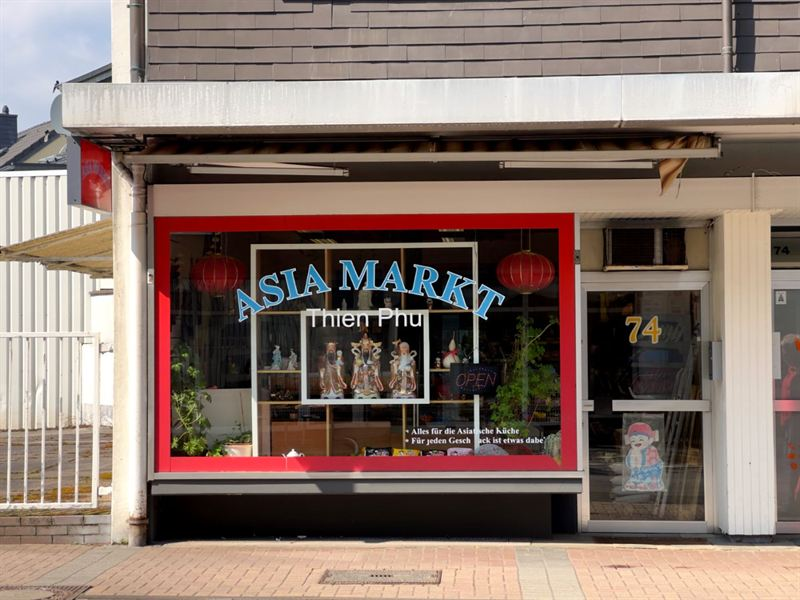
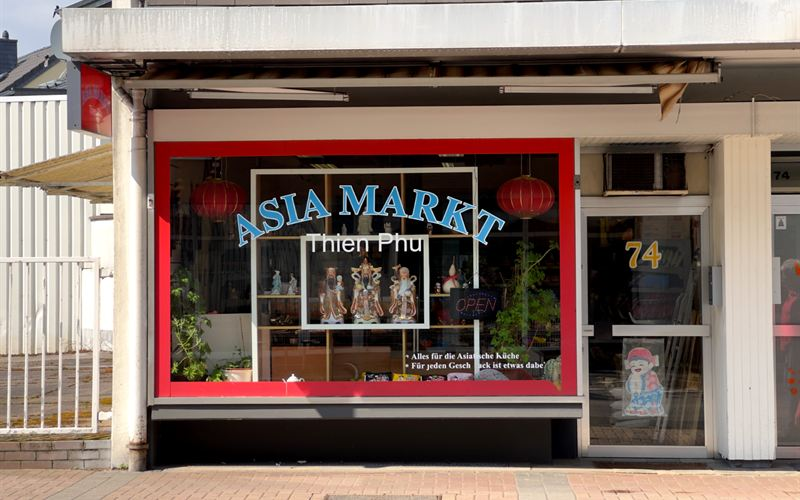
Vereinheitliche die Laden-Galerie auf ein gemeinsames Bildformat
Die drei Bilder auf "Der Laden" standen in drei verschiedenen Formaten
nebeneinander - 4:3, 1400/858 und 3:4 - in Spalten von 1.3fr 1.3fr .9fr.
Das ergab drei verschieden hohe Kacheln mit einer Hoehenspanne von 129 px
und einer entsprechend unruhigen Reihe. Mein vorheriger Zuschnitt des
Schaufensterfotos hatte das noch verschaerft.

Statt die Hoehen nachtraeglich anzugleichen, ist die Ursache behoben: alle
drei Bilder haben jetzt 16:10, die Spalten sind gleich breit. Ergebnis sind
drei identische Kacheln, Hoehenspanne 0 px, Unterkanten buendig.
align-items: start konnte entfallen.

Jedes Bild neu erzeugt aus der jeweils hoechstaufloesenden Quelle statt aus
der bereits komprimierten Webfassung:

  ladenschild   <- uploads/ladenschild.jpg    1600x1200
  schaufenster  <- uploads/schaufenster.jpg   1600x1136
  haus          <- Fotos/IMG_3952.jpg         3024x4032

Das Hausbild ist dabei mittig auf den Laden gelegt, wie gewuenscht: der rote
Rahmen sitzt jetzt waagerecht wie senkrecht in der Bildmitte. Vorher zeigte
das Bild vor allem Himmel und Fassade, der Laden war ein kleiner Streifen am
unteren Rand. Oben bleibt ein Geschoss als Kontext, unten Gehweg und
Strassenkante - die Aufnahme bleibt also "von der Strasse aus gesehen" und
dupliziert nicht die beiden anderen Kacheln.

Zwei Nebenwirkungen, beide zum Guten:

- Startgalerie: Schaufenster- und Eingangsfoto stehen jetzt 1 px
  auseinander statt 56 px.
- Sortiment-Kopf: ladenschild.jpg wird dort ebenfalls verwendet und ist
[…]

diff --git a/ueber-uns.html b/ueber-uns.html
@@ -115,26 +115,26 @@
         </div>
 
         <div class="galerie-3" data-reveal style="margin-top:40px">
-            <img src="assets/images/ladenschild.jpg" width="1400" height="1050" class="foto foto-4-3"
+            <img src="assets/images/ladenschild.jpg" width="1200" height="750" class="foto foto-16-10"
                  srcset="assets/images/ladenschild-480.jpg 480w,
                          assets/images/ladenschild-800.jpg 800w,
-                         assets/images/ladenschild.jpg 1400w"
-                 sizes="(max-width: 760px) calc(100vw - 44px), 415px"
+                         assets/images/ladenschild.jpg 1200w"
+                 sizes="(max-width: 760px) calc(100vw - 44px), 373px"
                  alt="Ladenfront mit rotem Schaufensterrahmen und dem Schriftzug ASIA MARKT Thien Phu"
                  loading="lazy" decoding="async">
-            <img src="assets/images/schaufenster.jpg" width="1400" height="858" class="foto foto-schaufenster"
+            <img src="assets/images/schaufenster.jpg" width="1200" height="750" class="foto foto-16-10"
                  srcset="assets/images/schaufenster-480.jpg 480w,
                          assets/images/schaufenster-800.jpg 800w,
-                         assets/images/schaufenster.jpg 1400w"
-                 sizes="(max-width: 760px) calc(100vw - 44px), 415px"
+                         assets/images/schaufenster.jpg 1200w"
+                 sizes="(max-width: 760px) calc(100vw - 44px), 373px"
                  alt="Schaufenster aus der Nähe, mit roten Lampions und Glücksfiguren"
                  loading="lazy" decoding="async">
-            <img src="assets/images/haus.jpg" width="900" height="1200" class="foto foto-3-4"
-                 srcset="assets/images/haus-320.jpg 320w,
-                         assets/images/haus-600.jpg 600w,
-                         assets/images/haus.jpg 900w"
-                 sizes="(max-width: 760px) calc(100vw - 44px), 287px"
-                 alt="Das Haus Hauptstraße 74 von der Straße aus gesehen"
+            <img src="assets/images/haus.jpg" width="1200" height="750" class="foto foto-16-10"
+                 srcset="assets/images/haus-480.jpg 480w,
+                         assets/images/haus-800.jpg 800w,
+                         assets/images/haus.jpg 1200w"
+                 sizes="(max-width: 760px) calc(100vw - 44px), 373px"
+                 alt="Das Haus Hauptstraße 74 von der Straße aus gesehen, mit dem Laden im Erdgeschoss"
                  loading="lazy" decoding="async">
         </div>
     </section>

diff --git a/assets/css/site.css b/assets/css/site.css
@@ -232,12 +232,12 @@ h2 { font-size: clamp(27px, 3.6vw, 38px); margin: 0 0 8px; }
    Laden und verhindern so das Springen des Layouts. */
 .foto { width: 100%; height: auto; object-fit: cover; border-radius: var(--radius); background: var(--rose); }
 .foto-4-3        { aspect-ratio: 4 / 3; }
-.foto-3-4        { aspect-ratio: 3 / 4; }
-/* Beim Schaufensterfoto sind oben 13,6 % abgeschnitten: dort lagen der
-   Betonunterzug und der cremefarbene Sturz oberhalb des roten Rahmens.
-   Der Rahmen selbst bleibt oben als schmaler Streifen erhalten. Deshalb
-   1400/858 statt der 1600/1136 des Entwurfs. */
-.foto-schaufenster { aspect-ratio: 1400 / 858; }
+/* Gemeinsames Format fuer Ladenschild, Schaufenster und Haus. Der Entwurf gab
+   jedem der drei ein eigenes Verhaeltnis (4/3, 1600/1136, 3/4); nebeneinander
+   in der Galerie ergab das drei verschieden hohe Kacheln und eine unruhige
+   Reihe. Ein gemeinsames 16:10 loest das an der Wurzel, statt die Hoehen
+   nachtraeglich anzugleichen. */
+.foto-16-10      { aspect-ratio: 16 / 10; }
 /* Beim Eingangsfoto sind oben 22 % abgeschnitten: dort waren der
    Betonunterzug und die zusammengerollte, ausgefranste Markise zu sehen.
    Dadurch weicht das Verhaeltnis bewusst vom Entwurf (1400/1628) ab. */
@@ -274,7 +274,11 @@ h2 { font-size: clamp(27px, 3.6vw, 38px); margin: 0 0 8px; }
 .bewertungen footer { font-size: 14px; font-weight: 700; color: var(--grau-zart); }
 
 .galerie-2 { display: grid; grid-template-columns: 1.45fr 1fr; gap: 20px; align-items: start; }
-.galerie-3 { display: grid; grid-template-columns: 1.3fr 1.3fr .9fr; gap: 20px; align-items: start; }
+/* Drei gleich breite Spalten. Der Entwurf hatte 1.3fr 1.3fr .9fr, weil das
+   dritte Bild hochkant war — bei gleichem Format waere das jetzt eine
+   willkuerlich schmalere Kachel. `align-items: start` kann entfallen, da alle
+   drei ohnehin gleich hoch sind. */
+.galerie-3 { display: grid; grid-template-columns: repeat(3, 1fr); gap: 20px; }
 
 /* ------------------------------------------------------------- Sortiment - */
 

diff --git a/sortiment.html b/sortiment.html
@@ -79,10 +79,10 @@
             <h1>Unser Sortiment</h1>
             <p>Ein kleines Ladenlokal, aber gut sortiert. Was Sie nicht finden, fragen Sie einfach, vieles lässt sich besorgen.</p>
         </div>
-        <img src="assets/images/ladenschild.jpg" width="1400" height="1050" class="foto foto-4-3"
+        <img src="assets/images/ladenschild.jpg" width="1200" height="750" class="foto foto-16-10"
              srcset="assets/images/ladenschild-480.jpg 480w,
                      assets/images/ladenschild-800.jpg 800w,
-                     assets/images/ladenschild.jpg 1400w"
+                     assets/images/ladenschild.jpg 1200w"
              sizes="(max-width: 980px) calc(100vw - 44px), 517px"
              alt="Ladenfront des Asia Markt Thien Phu mit rotem Schaufensterrahmen und dem Schriftzug ASIA MARKT Thien Phu"
              loading="eager" decoding="async" fetchpriority="high">

diff --git a/index.html b/index.html
@@ -232,10 +232,10 @@
 
     <section class="bahn" style="padding-block: 52px">
         <div class="galerie-2" data-reveal>
-            <img src="assets/images/schaufenster.jpg" width="1400" height="858" class="foto foto-schaufenster"
+            <img src="assets/images/schaufenster.jpg" width="1200" height="750" class="foto foto-16-10"
                  srcset="assets/images/schaufenster-480.jpg 480w,
                          assets/images/schaufenster-800.jpg 800w,
-                         assets/images/schaufenster.jpg 1400w"
+                         assets/images/schaufenster.jpg 1200w"
                  sizes="(max-width: 760px) calc(100vw - 44px), 672px"
                  alt="Schaufenster des Asia Markt Thien Phu aus der Nähe, mit roten Lampions und dem Schriftzug ASIA MARKT Thien Phu"
                  loading="lazy" decoding="async">
